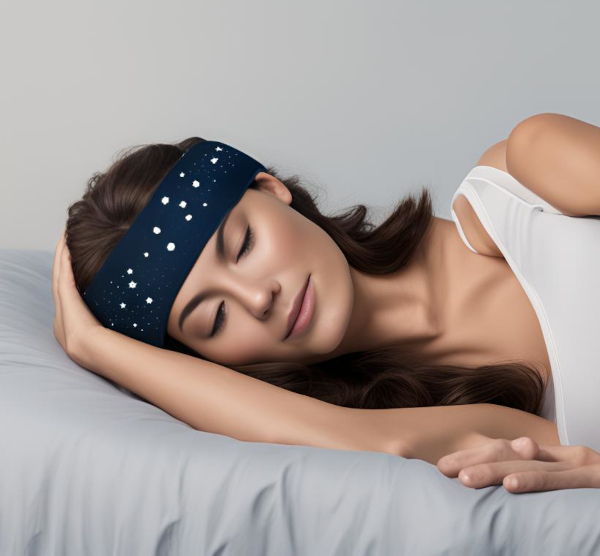
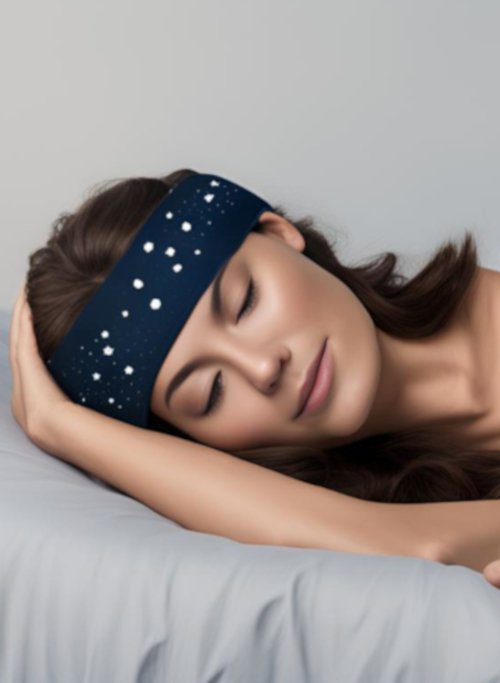
imagens reduzidas.

diff --git a/estilos/style.css b/estilos/style.css
@@ -35,7 +35,18 @@
 
 /*telas pequenas*/
 
+picture {
+    display: block; 
+}
 
+    source {
+        
+    }
+    
+    .slide picture img {
+        width: 100%;
+        height: auto;
+    }
 
 /**/
 

diff --git a/estilos/media-query.css b/estilos/media-query.css
@@ -198,7 +198,6 @@
 section#sobre{
     padding: 10px;
 }
-
 }
 
 /* Telinhas pequenas */
